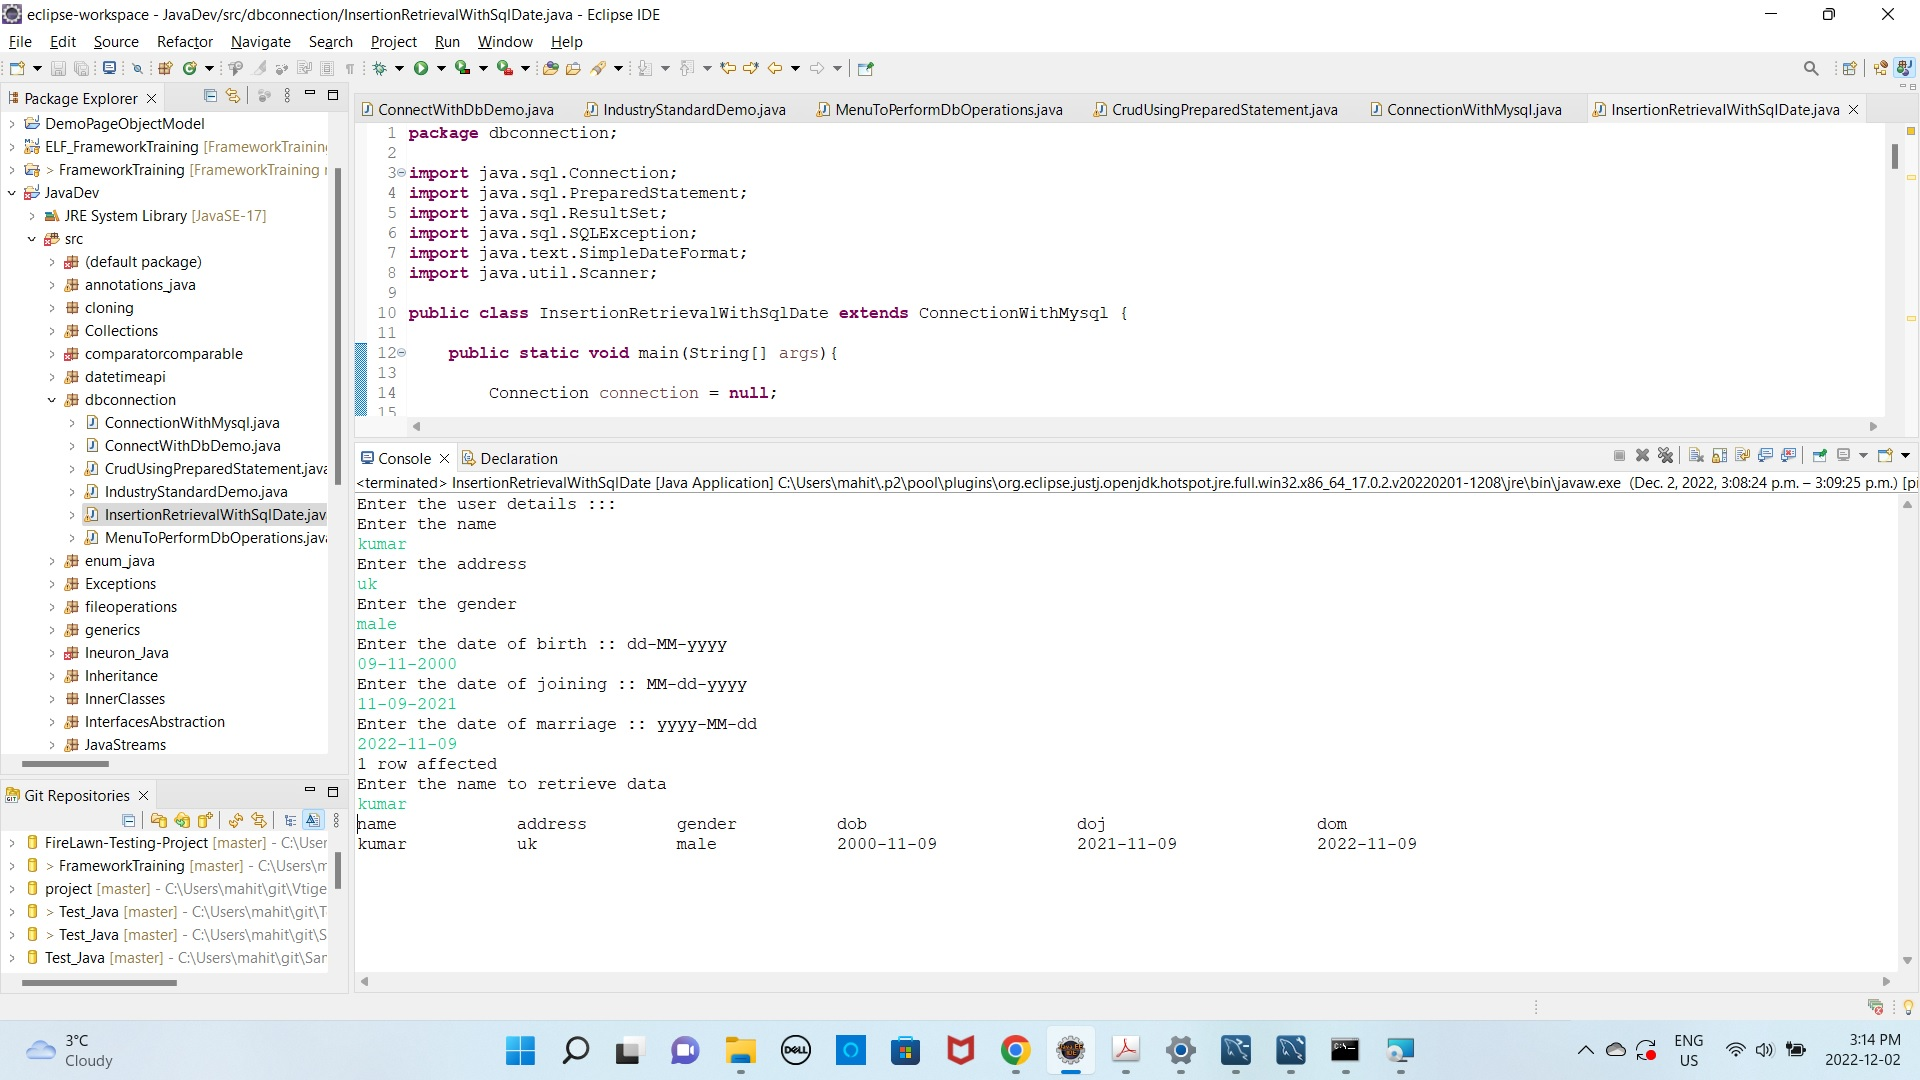
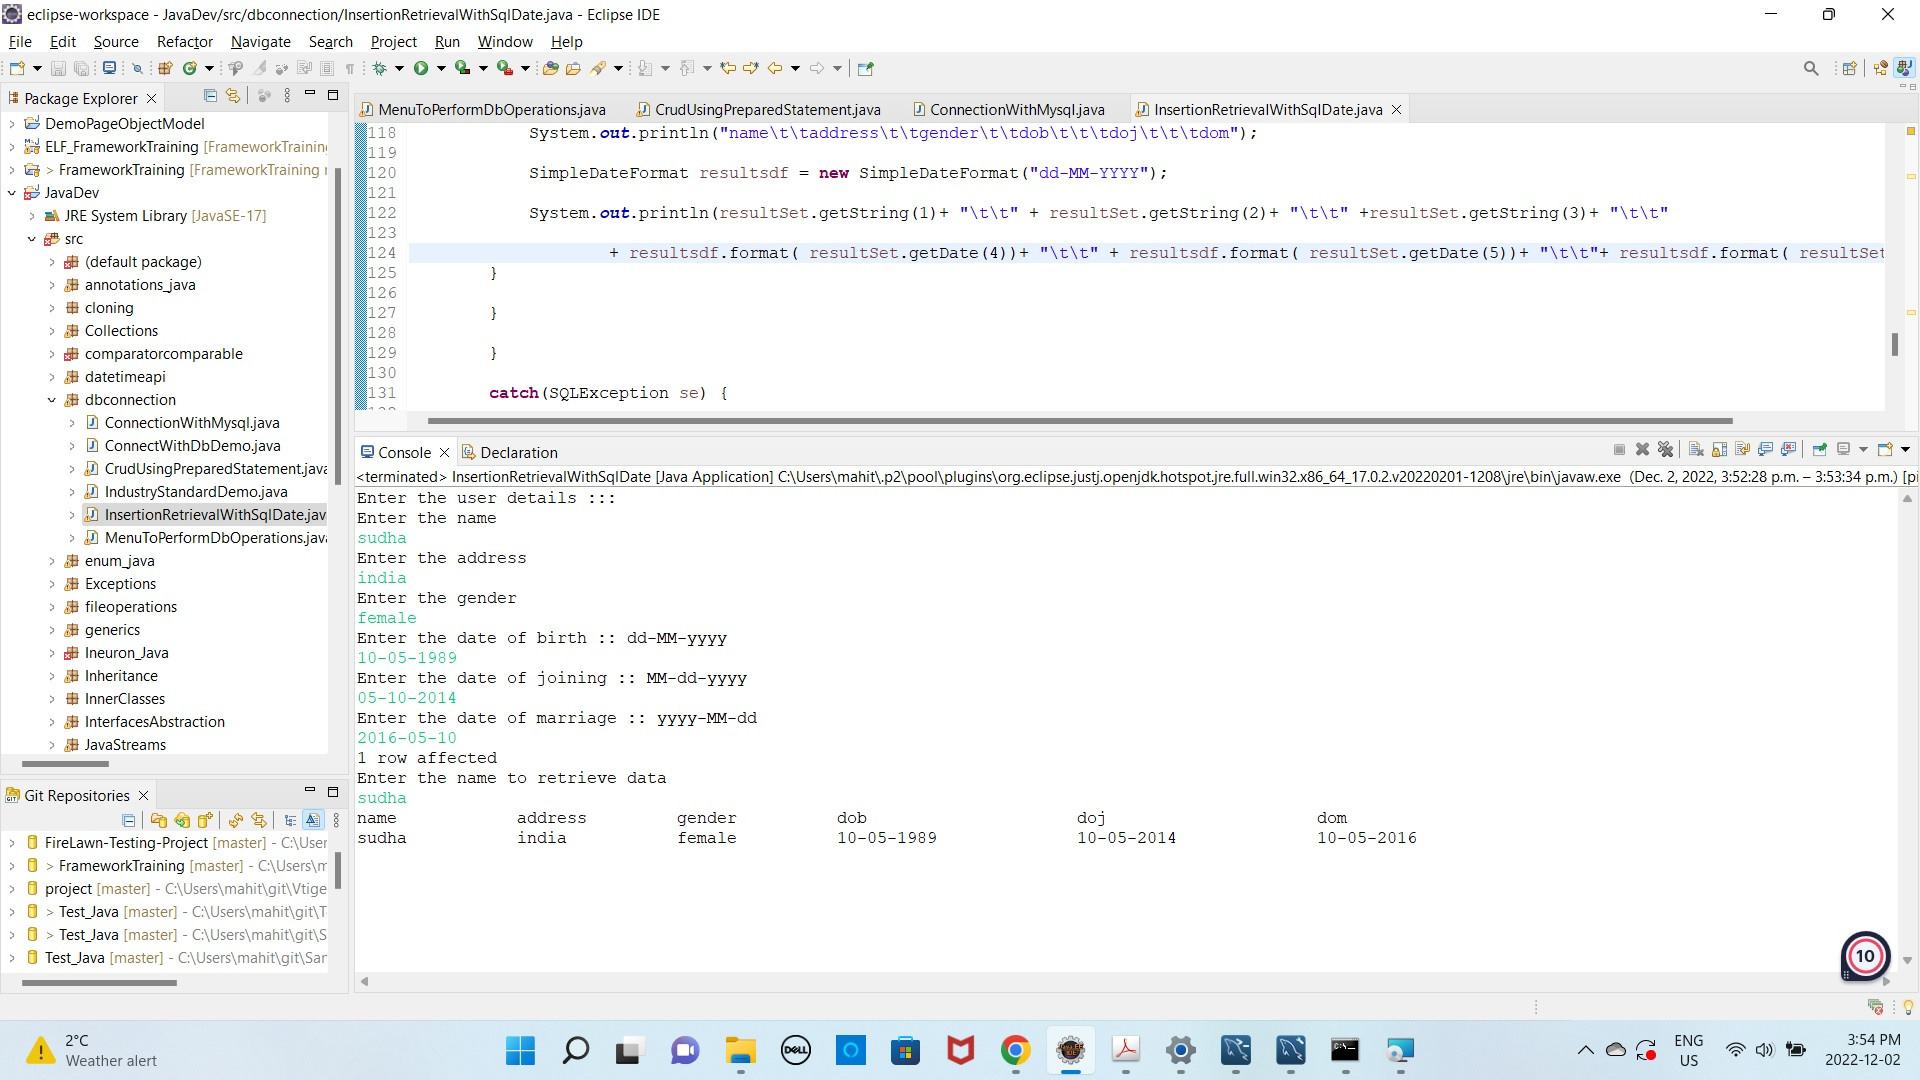
Add files via upload
updated

diff --git a/InsertionRetrievalWithSqlDate.java b/InsertionRetrievalWithSqlDate.java
@@ -117,9 +117,11 @@ public class InsertionRetrievalWithSqlDate extends ConnectionWithMysql {
 			
 			System.out.println("name\t\taddress\t\tgender\t\tdob\t\t\tdoj\t\t\tdom");
 			
+			SimpleDateFormat resultsdf = new SimpleDateFormat("dd-MM-YYYY");
+			
 			System.out.println(resultSet.getString(1)+ "\t\t" + resultSet.getString(2)+ "\t\t" +resultSet.getString(3)+ "\t\t" 
 					
-					+ resultSet.getDate(4)+ "\t\t" + resultSet.getDate(5)+ "\t\t"+ resultSet.getDate(6));
+					+ resultsdf.format( resultSet.getDate(4))+ "\t\t" + resultsdf.format( resultSet.getDate(5))+ "\t\t"+ resultsdf.format( resultSet.getDate(6)));
 		}
 		
 		}
